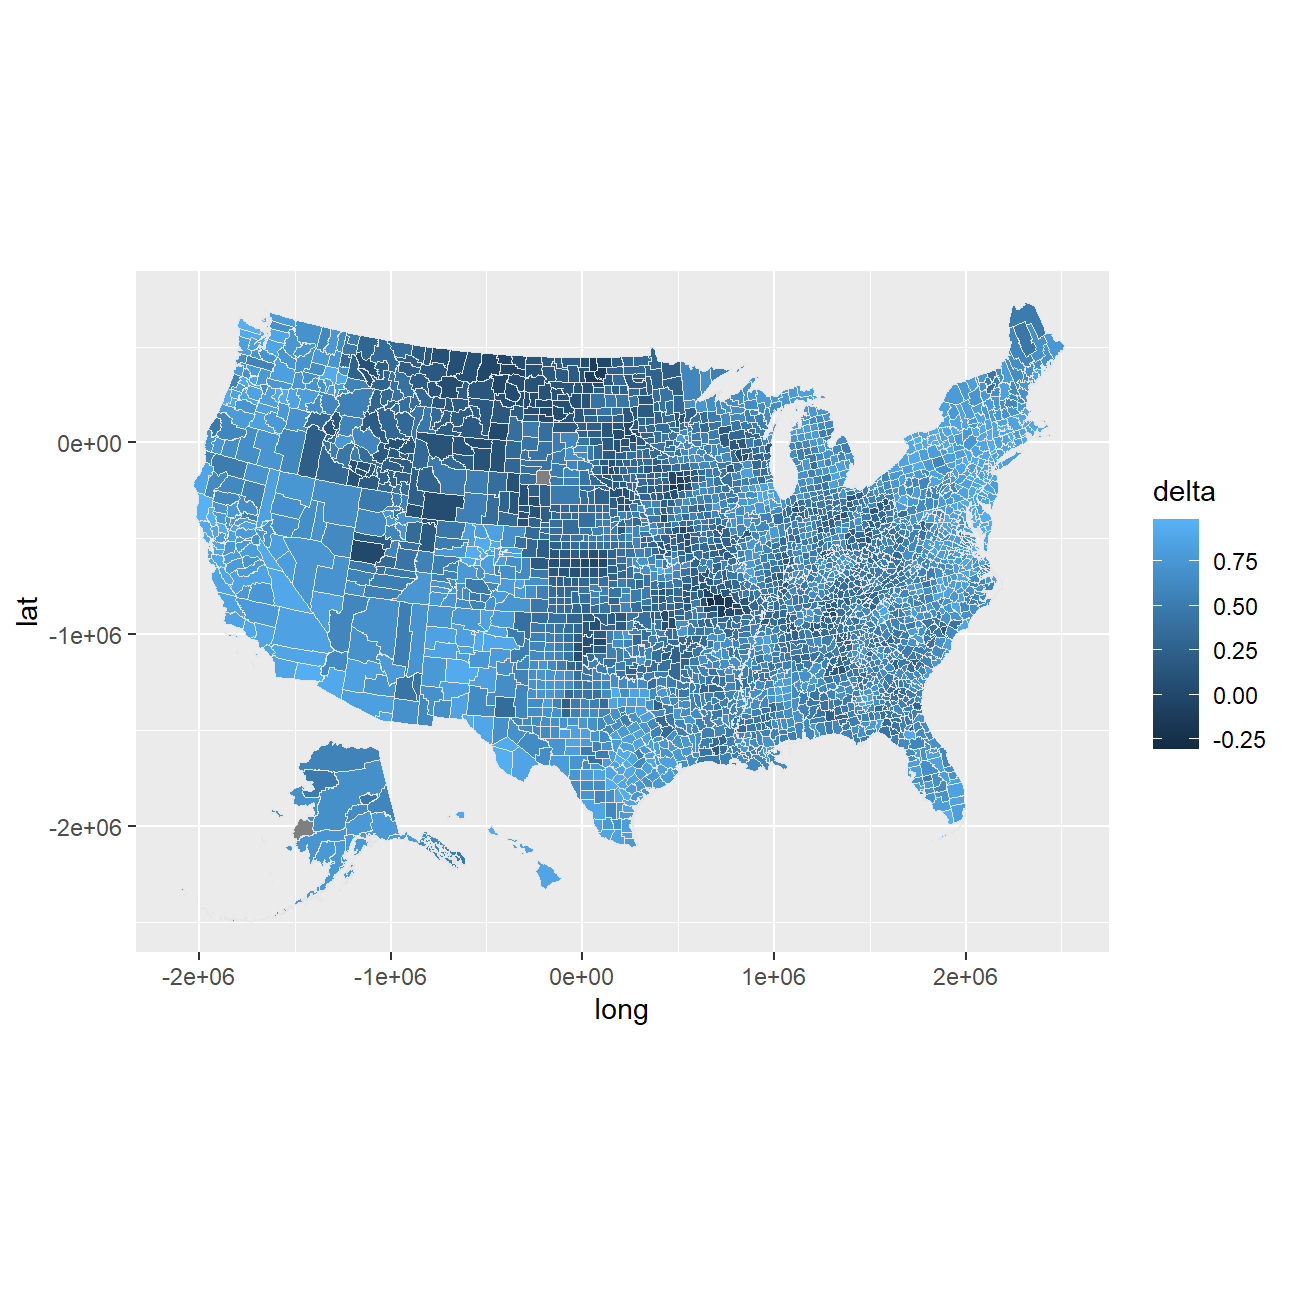
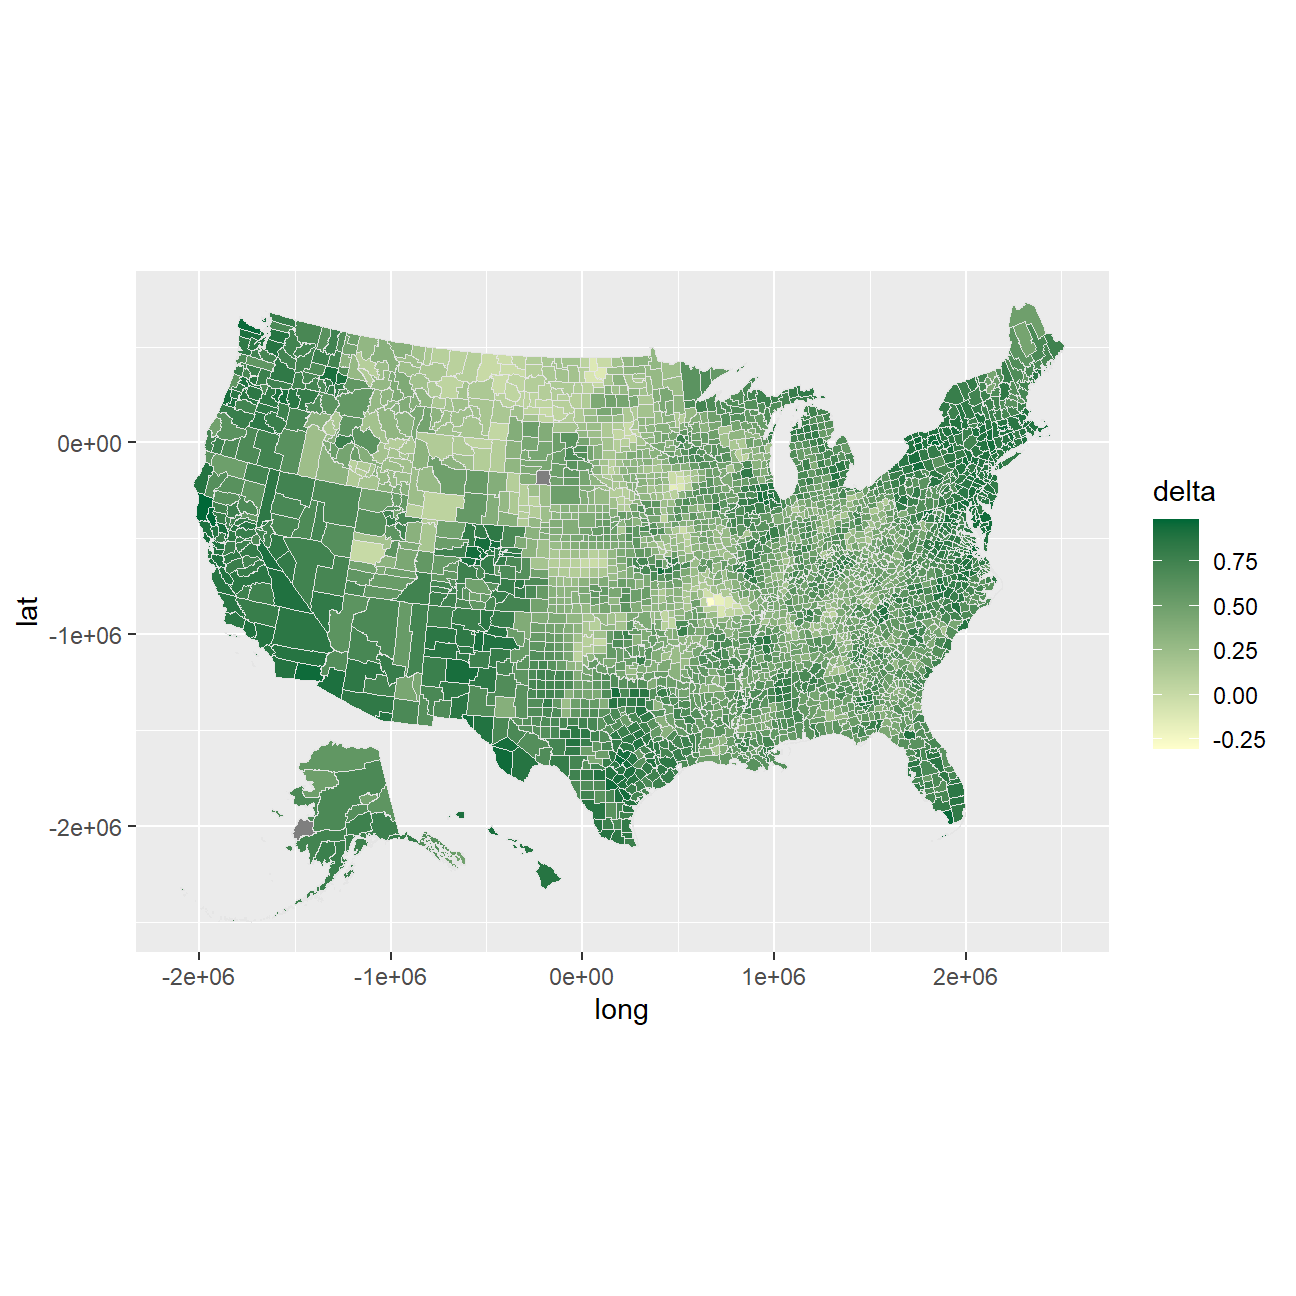
changes1

Changed region(s): [[0.1543, 0.216, 0.8333, 0.679], [0.8642, 0.4012, 0.9259, 0.5864], [0.4012, 0.6481, 0.4321, 0.679]]

diff --git a/public/blogs/blog6/index.html b/public/blogs/blog6/index.html
@@ -7,8 +7,8 @@
 	<meta name="viewport" content="width=device-width, initial-scale=1, user-scalable=no" />
 	<meta name="description" content="Engineer">
 	<meta name="author" content="Ilana Kovalenko">
-	<meta name="generator" content="Hugo 0.74.3" />
-	<title> &middot; A</title>
+	<meta name="generator" content="Hugo 0.75.1" />
+	<title>NYT Mask Use Acceptance &middot; My Portfolio</title>
 	<!-- Stylesheets -->
 	
 	<link rel="stylesheet" href="/css/main.css"/>
@@ -61,7 +61,7 @@
                 <li><a href="/blogs" class="button special fit">Get Started</a></li>
             
             
-                <li><a href="/" class="button fit">Log In</a></li>
+                <li><a href="/" class="button fit"></a></li>
             
         </ul>
     </nav>
@@ -73,7 +73,7 @@
                     <section id="one">
                         <div class="inner">
                             <header class="major">
-                                <h1></h1>
+                                <h1>NYT Mask Use Acceptance</h1>
                             </header>
                             
                             
@@ -85,7 +85,8 @@
 </div>
 <div id="getting-the-data" class="section level2">
 <h2>Getting the data</h2>
-<pre class="r"><code>#Source for data url &lt;- &quot;https://github.com/nytimes/covid-19-data/raw/master/mask-use/mask-use-by-county.csv&quot;
+<pre class="r"><code>#Source for data 
+url &lt;- &quot;https://github.com/nytimes/covid-19-data/raw/master/mask-use/mask-use-by-county.csv&quot;
 
 nyt_mask_survey &lt;- read_csv(here::here(&quot;data&quot;, &quot;nyt_mask_survey.csv&quot;))
 
@@ -97,7 +98,7 @@ nyt_mask_survey &lt;- nyt_mask_survey %&gt;%
     delta = mostly_yes-mostly_no
   )
 
-glimpse(nyt_mask_survey)</code></pre>
+glimpse(nyt_mask_survey) </code></pre>
 <pre><code>## Rows: 3,142
 ## Columns: 9
 ## $ countyfp   &lt;chr&gt; &quot;01001&quot;, &quot;01003&quot;, &quot;01005&quot;, &quot;01007&quot;, &quot;01009&quot;, &quot;01011&quot;, &quot;0...
@@ -120,43 +121,43 @@ glimpse(nyt_mask_survey)</code></pre>
 county_map %&gt;% 
   sample_n(5)</code></pre>
 <pre><code>##       long      lat  order  hole piece            group    id
-## 1 -1359556  -195546 112550 FALSE     1 0500000US32007.1 32007
-## 2  -421410 -1704721 163035 FALSE     1 0500000US48377.1 48377
-## 3  1491784  -661550  67587 FALSE     1 0500000US21153.1 21153
-## 4  2042221  -303338  34233 FALSE     1 0500000US10003.1 10003
-## 5  1087045 -1139233   2847 FALSE     1 0500000US01093.1 01093</code></pre>
+## 1  1537825  -500830 131690 FALSE     1 0500000US39105.1 39105
+## 2   506697 -1245352 134848 FALSE     1 0500000US40089.1 40089
+## 3   345672 -1596040 156452 FALSE     1 0500000US48041.1 48041
+## 4  1414629  -639675  68051 FALSE     1 0500000US21165.1 21165
+## 5 -1258297  -873245  18486 FALSE     1 0500000US04015.1 04015</code></pre>
 <pre class="r"><code>county_data %&gt;%
     sample_n(5)</code></pre>
-<pre><code>##      id                name state census_region      pop_dens   pop_dens4
-## 1 51177 Spotsylvania County    VA         South [  100,  500) [118,71672]
-## 2 51131  Northampton County    VA         South [   50,  100) [ 45,  118)
-## 3 06063       Plumas County    CA          West [    0,   10) [  0,   17)
-## 4 39049     Franklin County    OH       Midwest [ 1000, 5000) [118,71672]
-## 5 04023   Santa Cruz County    AZ          West [   10,   50) [ 17,   45)
-##     pop_dens6   pct_black     pop female white black travel_time land_area
-## 1 [215,71672] [15.0,25.0)  129188   50.9  77.9  15.9        38.0       402
-## 2 [ 45,   82) [25.0,50.0)   12121   52.2  61.3  35.8        18.8       212
-## 3 [  0,    9) [ 0.0, 2.0)   18606   49.9  91.1   1.0        22.9      2553
-## 4 [215,71672] [15.0,25.0) 1231393   51.3  70.4  22.0        21.5       532
-## 5 [ 25,   45) [ 0.0, 2.0)   46695   51.9  96.3   0.8        19.8      1237
+<pre><code>##      id             name state census_region      pop_dens   pop_dens4
+## 1 08005  Arapahoe County    CO          West [  500, 1000) [118,71672]
+## 2 39119 Muskingum County    OH       Midwest [  100,  500) [118,71672]
+## 3 47137   Pickett County    TN         South [   10,   50) [ 17,   45)
+## 4 32031    Washoe County    NV          West [   50,  100) [ 45,  118)
+## 5 08057   Jackson County    CO          West [    0,   10) [  0,   17)
+##     pop_dens6   pct_black    pop female white black travel_time land_area
+## 1 [215,71672] [10.0,15.0) 618821   50.8  78.8  10.8        26.9       798
+## 2 [ 82,  215) [ 2.0, 5.0)  85818   51.5  92.8   3.9        24.4       665
+## 3 [ 25,   45) [ 0.0, 2.0)   5124   50.2  98.8   0.2        27.0       163
+## 4 [ 45,   82) [ 2.0, 5.0) 440078   49.6  85.7   2.6        21.5      6302
+## 5 [  0,    9) [ 0.0, 2.0)   1396   45.9  96.2   0.1        18.9      1614
 ##   hh_income su_gun4 su_gun6  fips votes_dem_2016 votes_gop_2016
-## 1     78345 [ 5, 8) [ 4, 7) 51177          24204          34619
-## 2     33635 [ 8,11) [ 8,10) 51131           3255           2686
-## 3     45794 [11,54] [12,54]  6063           3224           5079
-## 4     50877 [ 5, 8) [ 4, 7) 39049         335961         192328
-## 5     37745 [ 0, 5) [ 4, 7)  4023          10684           3650
+## 1     60651 [ 5, 8) [ 7, 8)  8005         148365         109638
+## 2     40524 [ 8,11) [ 8,10) 39119          10926          23588
+## 3     35184 [11,54] [12,54] 47137            536           2019
+## 4     53040 [11,54] [10,12) 32031          97032          94529
+## 5     43606 [ 0, 5) [ 0, 4)  8057            171            628
 ##   total_votes_2016 per_dem_2016 per_gop_2016 diff_2016 per_dem_2012
-## 1            62083        0.390        0.558     10415        0.435
-## 2             6134        0.531        0.438       569        0.577
-## 3             8830        0.365        0.575      1855        0.402
-## 4           554711        0.606        0.347    143633        0.601
-## 5            14926        0.716        0.245      7034        0.683
+## 1           281658        0.527        0.389     38727        0.532
+## 2            36217        0.302        0.651     12662        0.454
+## 3             2609        0.205        0.774      1483        0.291
+## 4           209282        0.464        0.452      2503        0.507
+## 5              862        0.198        0.729       457        0.255
 ##   per_gop_2012 diff_2012  winner partywinner16 winner12 partywinner12 flipped
-## 1        0.551      6668   Trump    Republican   Romney    Republican      No
-## 2        0.413      1061 Clinton      Democrat    Obama      Democrat      No
-## 3        0.574      1570   Trump    Republican   Romney    Republican      No
-## 4        0.384    117713 Clinton      Democrat    Obama      Democrat      No
-## 5        0.305      5251 Clinton      Democrat    Obama      Democrat      No</code></pre>
+## 1        0.448     21201 Clinton      Democrat    Obama      Democrat      No
+## 2        0.524      2499   Trump    Republican   Romney    Republican      No
+## 3        0.698       996   Trump    Republican   Romney    Republican      No
+## 4        0.472      6655 Clinton      Democrat    Obama      Democrat      No
+## 5        0.708       384   Trump    Republican   Romney    Republican      No</code></pre>
 <pre class="r"><code>glimpse(county_data)</code></pre>
 <pre><code>## Rows: 3,195
 ## Columns: 32
@@ -240,21 +241,31 @@ p3 &lt;- p1 +
 # get different colours from https://colorbrewer2.org/
 # the one shown here is https://colorbrewer2.org/#type=diverging&amp;scheme=BrBG&amp;n=6
 p4 &lt;- p1 + 
-  scale_fill_gradientn(colours = c(&#39;#8c510a&#39;,&#39;#d8b365&#39;,&#39;#f6e8c3&#39;,&#39;#c7eae5&#39;,&#39;#5ab4ac&#39;,&#39;#01665e&#39;))</code></pre>
-<pre class="r"><code>p1 </code></pre>
-<p><img src="/blogs/blog6_files/figure-html/unnamed-chunk-5-1.png" width="648" style="display: block; margin: auto;" /></p>
+  scale_fill_gradientn(colours = c(&#39;#8c510a&#39;,&#39;#d8b365&#39;,&#39;#f6e8c3&#39;,&#39;#c7eae5&#39;,&#39;#5ab4ac&#39;,&#39;#01665e&#39;))
+
+p1</code></pre>
+<p><img src="/blogs/blog6_files/figure-html/plot_choropleths-1.png" width="648" style="display: block; margin: auto;" /></p>
 <pre class="r"><code>p2</code></pre>
-<p><img src="/blogs/blog6_files/figure-html/unnamed-chunk-6-1.png" width="648" style="display: block; margin: auto;" /></p>
+<p><img src="/blogs/blog6_files/figure-html/unnamed-chunk-5-1.png" width="648" style="display: block; margin: auto;" /></p>
 <pre class="r"><code>p3</code></pre>
-<p><img src="/blogs/blog6_files/figure-html/unnamed-chunk-7-1.png" width="648" style="display: block; margin: auto;" /></p>
+<p><img src="/blogs/blog6_files/figure-html/unnamed-chunk-6-1.png" width="648" style="display: block; margin: auto;" /></p>
 <pre class="r"><code>p4</code></pre>
-<p><img src="/blogs/blog6_files/figure-html/unnamed-chunk-8-1.png" width="648" style="display: block; margin: auto;" /></p>
+<p><img src="/blogs/blog6_files/figure-html/unnamed-chunk-7-1.png" width="648" style="display: block; margin: auto;" /></p>
 <pre class="r"><code>p4 + labs(fill = &quot;Mask acceptance, (Mostly Yes - Mostly No)&quot;, 
           caption = &quot;“Estimates from The New York Times, based on roughly 250,000 interviews \nconducted by Dynata from July 2 to July 14, 2020”&quot;) +
   guides(fill = guide_legend(nrow = 1)) + 
   theme_map() + 
   theme(legend.position = &quot;bottom&quot;)</code></pre>
-<p><img src="/blogs/blog6_files/figure-html/unnamed-chunk-9-1.png" width="648" style="display: block; margin: auto;" /></p>
+<p><img src="/blogs/blog6_files/figure-html/unnamed-chunk-8-1.png" width="648" style="display: block; margin: auto;" /></p>
+</div>
+<div id="checking-for-relationships" class="section level2">
+<h2>Checking for relationships</h2>
+<p>Does mask use acceptance have any relation with some demographics? Let us explore the relationship between country household income, population, and % who voted republican in 2016</p>
+<pre class="r"><code>county_masks_full %&gt;% 
+  select(hh_income, pop, per_gop_2016, delta) %&gt;% 
+  GGally::ggpairs(alpha = 0.4)+
+  theme_minimal()</code></pre>
+<p><img src="/blogs/blog6_files/figure-html/ggpairs-1.png" width="648" style="display: block; margin: auto;" /></p>
 </div>
 
                         </div>

diff --git a/public/blogs/index.html b/public/blogs/index.html
@@ -90,7 +90,7 @@
                     
                     <section>
                         <a href="/blogs/blog5/" class="image">
-							<img src="/img/blogs/pic10.jpg" alt="" data-position="center center" />
+							<img src="/img/blogs/" alt="" data-position="center center" />
 						</a>
                         <div class="content">
                             <div class="inner">
@@ -100,6 +100,23 @@
                                 <p></p>
                                 <ul class="actions">
                                     <li><a href="/blogs/blog5/" class="button">Learn more</a></li>
+                                </ul>
+                            </div>
+                        </div>
+                    </section>
+                    
+                    <section>
+                        <a href="/blogs/blog6/" class="image">
+							<img src="/img/blogs/" alt="" data-position="center center" />
+						</a>
+                        <div class="content">
+                            <div class="inner">
+                                <header class="major">
+                                    <h3>NYT Mask Use Acceptance</h3>
+                                </header>
+                                <p></p>
+                                <ul class="actions">
+                                    <li><a href="/blogs/blog6/" class="button">Learn more</a></li>
                                 </ul>
                             </div>
                         </div>

diff --git a/public/blogs/blog5/index.html b/public/blogs/blog5/index.html
@@ -76,8 +76,6 @@
                                 <h1>Alcohol Consumption</h1>
                             </header>
                             
-                                <span class="image main"><img src="/img/blogs/pic10.jpg" alt="" /></span>
-                            
                             
 
 

diff --git a/content/blogs/blog5.html b/content/blogs/blog5.html
@@ -3,7 +3,7 @@ title: "Alcohol Consumption"
 date: '2020-10-31T21:28:43-05:00'
 description: ''
 draft: no
-image: pic10.jpg
+#image: pic10.jpg
 keywords: ''
 slug: blog5
 categories:
